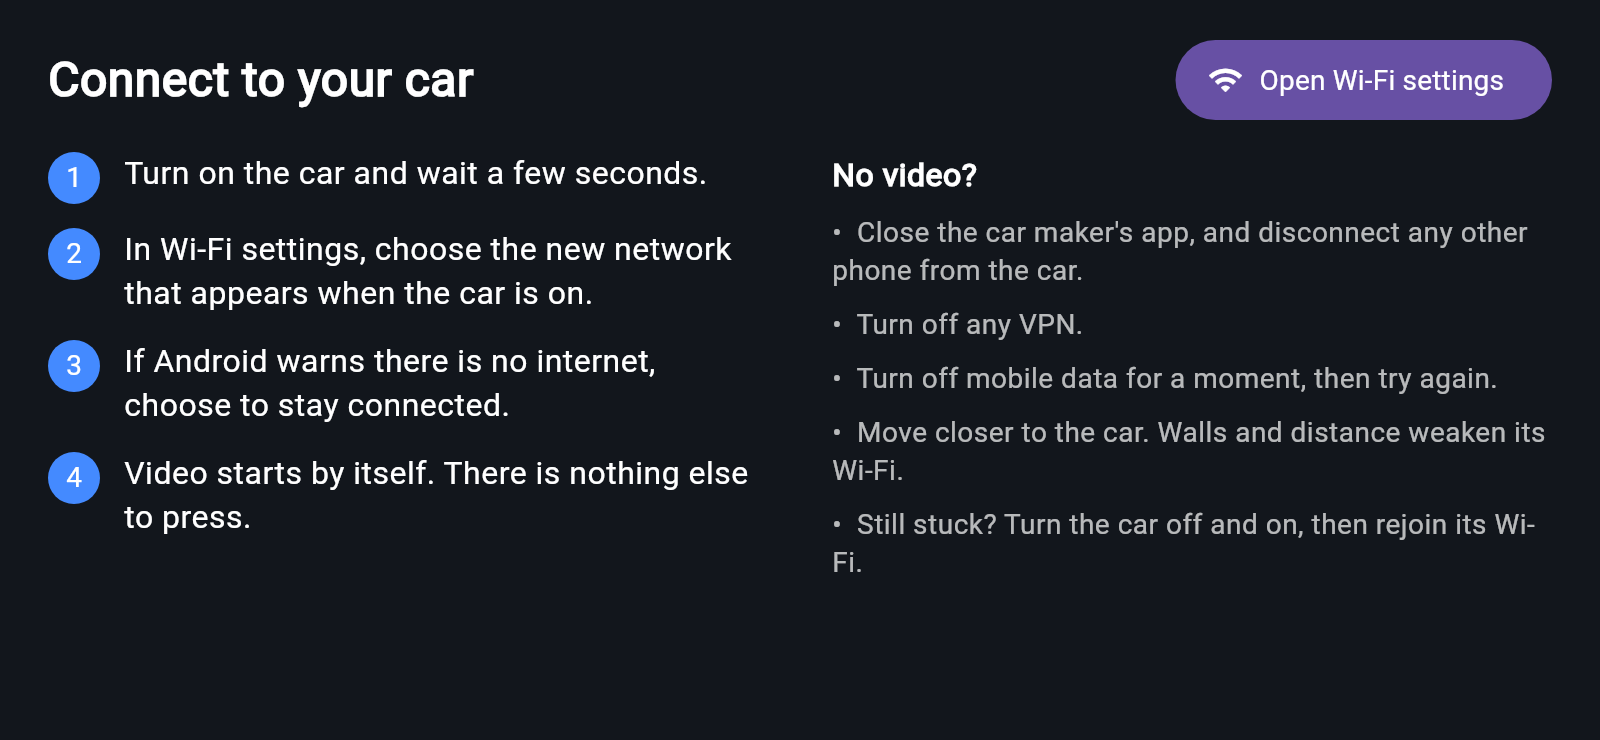
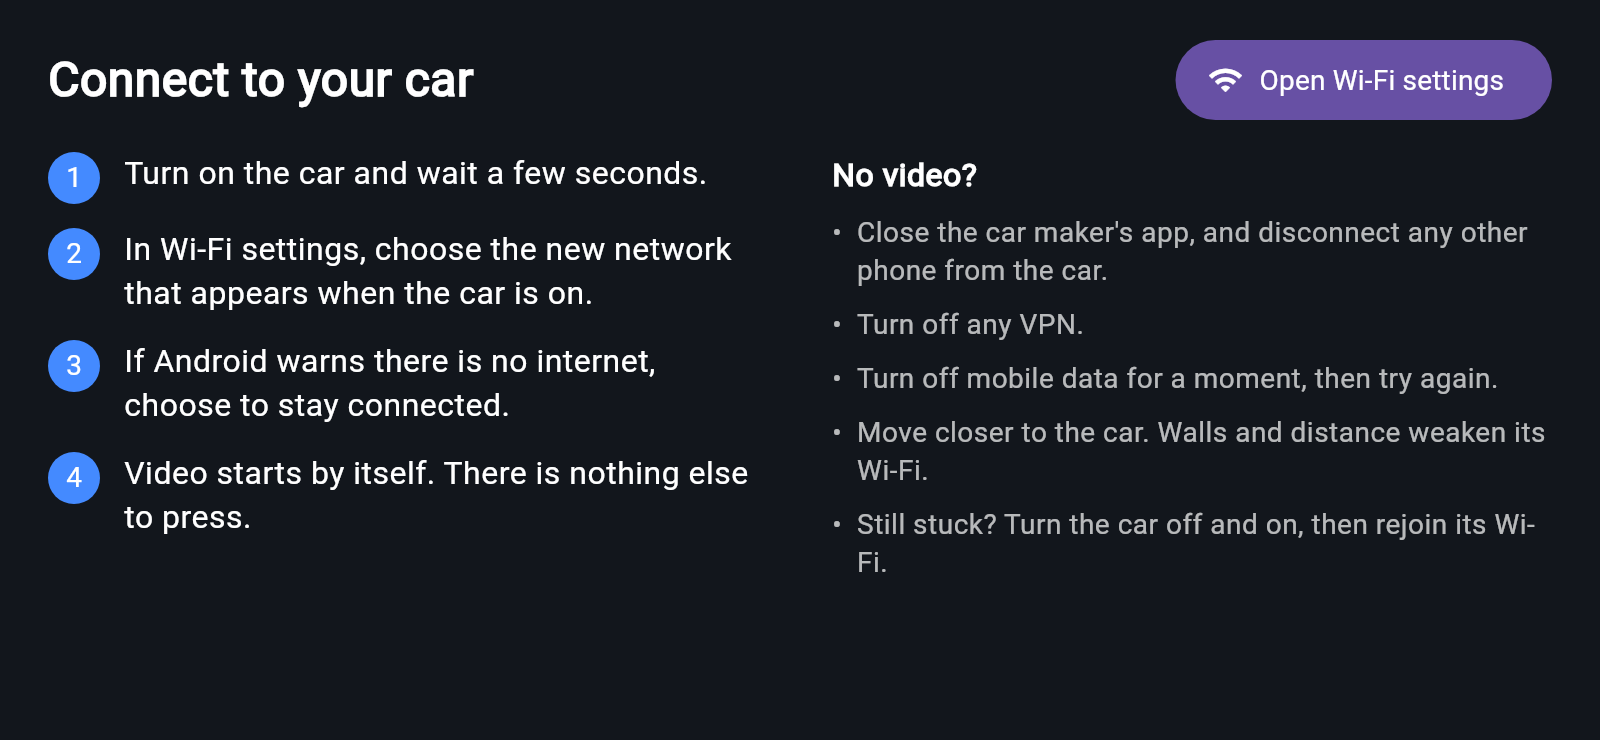
Add the connection guide and list v2 on the front page

diff --git a/README.md b/README.md
@@ -3,7 +3,7 @@
 A video-only viewer for the camera on the **NQD 1:64 Desktop Drift** camera car,
 which carries an **FPV BOX HD 1080** camera on its roof. Open the app and the
 camera fills the screen. There are no driving controls, accounts or cloud
-services.
+services. Version 2 can also take photos and record video.
 
 | The car and camera | The box |
 | --- | --- |
@@ -20,13 +20,14 @@ or endorsed by the manufacturer.
 | Take photos | No | Yes |
 | Record video | No | Yes |
 | Connection guide in the app | No | Yes |
-| Download | [v1.0.0](../../releases/tag/v1.0.0) | Coming soon, still in testing |
+| Download | [v1.0.0](../../releases/tag/v1.0.0) | [v2.0.0](../../releases/tag/v2.0.0) |
 
 ## Install
 
 Download the files for the version you want from the table above.
 
-**Android:** install `CarCam.apk`. New builds install over old ones.
+**Android:** install `CarCam.apk`. If Android refuses to install it over another
+version, uninstall the old one first.
 
 **iPhone:** Apple requires apps to be signed, and `CarCam-unsigned.ipa` isn't.
 Sign and install it with one of these:
@@ -38,12 +39,10 @@ Sign and install it with one of these:
 
 ## Use
 
-1. Turn the car on.
-2. Join the car's Wi-Fi on your phone.
-3. Open Car Cam.
+Turn on the car, join its Wi-Fi on your phone and open Car Cam. See the
+[connection guide](docs/CONNECTING.md) for screenshots and troubleshooting.
 
-Android may warn that the network has no internet. Choose to stay connected. On
-iPhone, allow **Local Network** access the first time you're asked.
+![Car Cam showing the camera picture, drawn here, with photo and record buttons](docs/images/live.png)
 
 ## Develop
 
@@ -60,6 +59,12 @@ replaces the `latest` release.
 | `lib/protocol/video_channel.dart` | Frame reassembly and acknowledgements |
 | `lib/protocol/jpeg_header.dart` | Generates the JPEG header older cameras omit |
 | `lib/protocol/car_video_client.dart` | Sockets and timing |
-| `lib/main.dart` | The full-screen video screen |
+| `lib/capture/capture_service.dart` | Photo and video calls to native code |
+| `lib/ui/` | The camera screen and connection guide |
+| `lib/main.dart` | Ties the app together |
+| `android/`, `ios/Runner/AppDelegate.swift` | Native H.264 recording and saving |
+| `integration_test/` | Capture tests run on emulators and simulators |
+| `tool/` | Device test scripts and the screenshot renderer |
 | `test/fake_car.dart` | Simulated car used by the tests |
+| `docs/CONNECTING.md` | The connection guide |
 | `docs/PROTOCOL.md` | The wire protocol |

diff --git a/docs/CONNECTING.md b/docs/CONNECTING.md
@@ -1,0 +1,57 @@
+# Connecting to your car
+
+Pictures of the phone are the app's own screens. The camera picture in them is
+a drawn stand-in, not real footage.
+
+## The steps
+
+1. **Turn on the car** and wait a few seconds.
+2. **Open Car Cam.** Until it finds the car, it shows these steps, with a button
+   that opens your settings.
+3. **Join the car's Wi-Fi.** Choose the new network that appears when the car is
+   on.
+4. **Go back to Car Cam.** Video starts by itself.
+
+| Android | iPhone |
+| --- | --- |
+| ![Connection steps on Android](images/guide-android.png) | ![Connection steps on iPhone](images/guide-iphone.png) |
+
+**Android:** if your phone warns that the network has no internet, choose to
+stay connected.
+
+**iPhone:** tap **Allow** when asked about Local Network. The **Open Settings**
+button opens Car Cam's page in Settings, so go back to the main Settings list to
+find Wi-Fi.
+
+## Taking photos and videos
+
+The buttons on the right take a photo or start recording, and a red timer shows
+while you record. If you switch to another app, the video stops and is saved.
+
+![Recording, with a timer at the top and a stop button on the right](images/recording.png)
+
+Android saves to **Pictures/Car Cam** and **Movies/Car Cam**. iPhone saves to
+your photo library. Both ask for permission if they need it: iPhone the first
+time you use each button, Android only on version 9 and older.
+
+To see these steps again, tap **?** at the top left.
+
+## What the screen is telling you
+
+| You see | What it means | What to do |
+| --- | --- | --- |
+| The connection steps | Nothing has come back from the car | Follow the steps and the tips below |
+| Starting video… | The car answered, but no full picture has arrived | Wait a few seconds, then move closer |
+| Reconnecting… | The video stopped | Move closer, or check the car is still on |
+| Another phone is using the car | The car is busy | Close the app on the other phone, or disconnect it from the car's Wi-Fi |
+
+![The Reconnecting message over the last picture](images/status-reconnecting.png)
+
+## If there's no video
+
+- Close the car maker's app, and disconnect any other phone from the car.
+- Turn off any VPN.
+- **Android:** turn off mobile data for a moment, then try again.
+- **iPhone:** in Settings > Privacy & Security > Local Network, turn on Car Cam.
+- Move closer. Walls and distance weaken the car's Wi-Fi.
+- Turn the car off and on, then rejoin its Wi-Fi.

diff --git a/docs/PROTOCOL.md b/docs/PROTOCOL.md
@@ -1,10 +1,10 @@
 # Video protocol
 
 Worked out for interoperability by static analysis of the car's Android app.
-**This has not yet been checked against a live car.** The code is tested against
-`test/fake_car.dart`, which was written from this same document, so those tests
-show the app is self-consistent rather than that the car agrees. Field names are
-descriptive guesses where marked.
+The app has been reported working with a real car. Its automated tests use
+`test/fake_car.dart`, written from this same document, so they show the app is
+self-consistent rather than that the car agrees. Which of the two camera families
+a given car uses hasn't been recorded. Meanings marked as inferred are guesses.
 
 There's no pairing, login or encryption in the video path.
 
